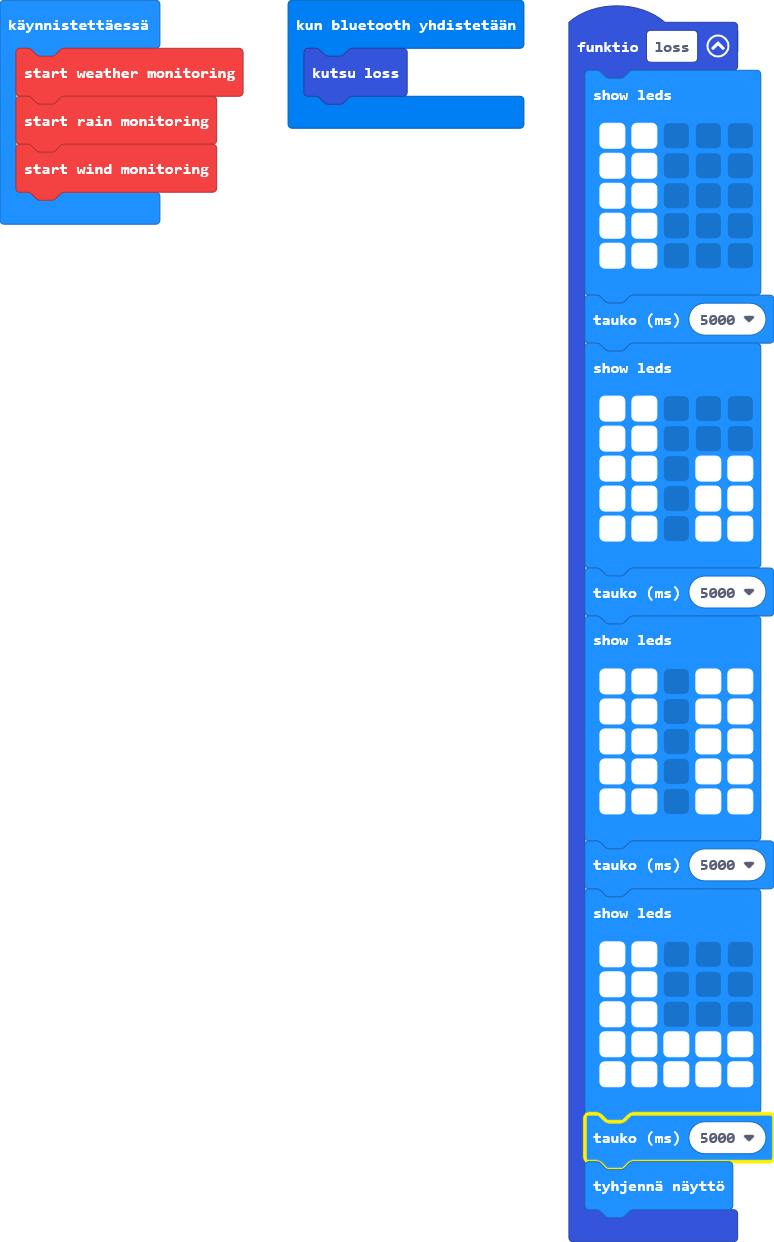
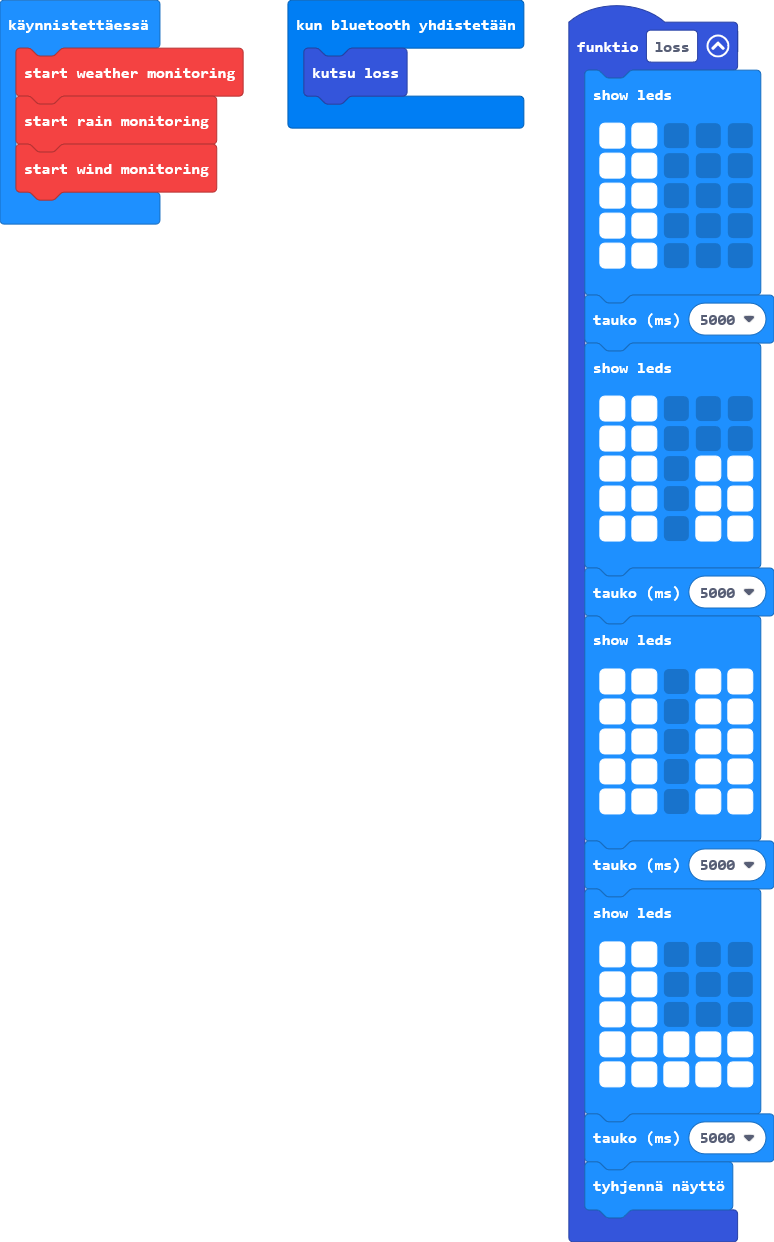
Päivitys pxt.json, main.blocks, main.ts

Changed region(s): [[0.7442, 0.8873, 1.0, 0.9485]]

diff --git a/main.ts b/main.ts
@@ -1,40 +1,39 @@
-function loss() {
+function loss () {
     basic.showLeds(`
         # # . . .
-                # # . . .
-                # # . . .
-                # # . . .
-                # # . . .
-    `)
+        # # . . .
+        # # . . .
+        # # . . .
+        # # . . .
+        `)
     basic.pause(5000)
     basic.showLeds(`
         # # . . .
-                # # . . .
-                # # . # #
-                # # . # #
-                # # . # #
-    `)
+        # # . . .
+        # # . # #
+        # # . # #
+        # # . # #
+        `)
     basic.pause(5000)
     basic.showLeds(`
         # # . # #
-                # # . # #
-                # # . # #
-                # # . # #
-                # # . # #
-    `)
+        # # . # #
+        # # . # #
+        # # . # #
+        # # . # #
+        `)
     basic.pause(5000)
     basic.showLeds(`
         # # . . .
-                # # . . .
-                # # . . .
-                # # # # #
-                # # # # #
-    `)
+        # # . . .
+        # # . . .
+        # # # # #
+        # # # # #
+        `)
     basic.pause(5000)
     basic.clearScreen()
 }
-
-bluetooth.onBluetoothConnected(function on_bluetooth_connected() {
+bluetooth.onBluetoothConnected(function () {
     loss()
 })
 weatherbit.startWeatherMonitoring()
